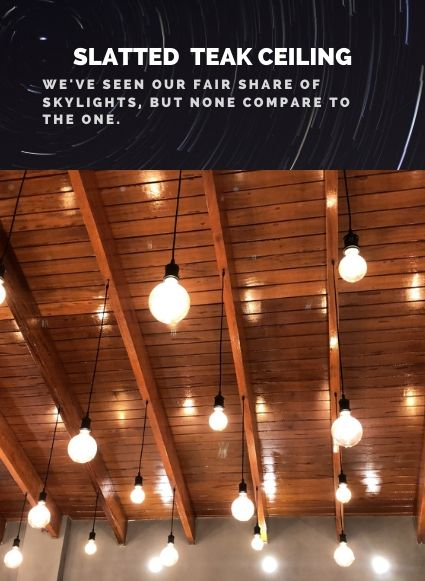
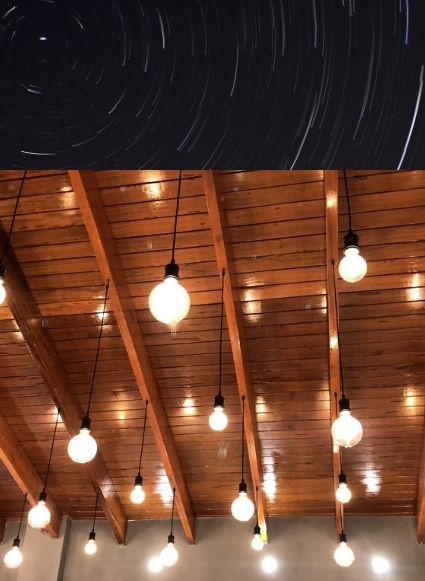
text uploaded

Changed region(s): [[0.0918, 0.062, 0.8259, 0.2169]]

diff --git a/index.html b/index.html
@@ -75,7 +75,7 @@
         </div>
     </header>
 
-    <div id="myCarousel" class="carousel slide home" data-ride="carousel" time-interval="false">
+    <div id="myCarousel" class="carousel slide home" data-ride="false" time-interval="false">
         <!-- Indicators -->
         <ul class="carousel-indicators">
             <li data-target="#myCarousel" data-slide-to="0" class="active"></li>
@@ -112,43 +112,128 @@
             <div class="container-fluid carousel-item">
                 <div class="container">
                     <!-- <img src="./resources/images/slideshow/1.png"> -->
+                    <div class="col-sm-3">
+                        <div>
+                            <h1>NATURAL WOOD TABLE TOPS</h1>
+                            <p>A ROUGHCUT LOG BEAUTIFULLY CONVERTED INTO AN EIGHT-SEATER DINING TABLE WITH PERFECT AESTHETICS FOR HOME AND OFFICE SPACES.</p>
+                        </div>
+                    </div>
                 </div>
             </div>
 
             <div class="container-fluid carousel-item">
                 <div class="container">
-                    <!-- <img src="./resources/images/slideshow/1.png"> -->
+                    <div class="col-sm-3">
+                        <div>
+                            <h1 style="color: black;">TRADITIONAL AND MORDEN POOJA MANDIR
+                            </h1>
+                            <p style="color: white;">WE DELIVER THE LATEST MANDIR DESIGNS THAT ARE BOTH AESTHETIC AND VAASTU COMPLAINT.
+                            </p>
+                        </div>
+                    </div>
                 </div>
             </div>
 
             <div class="container-fluid carousel-item">
-                <div class="container"></div>
+                <div class="container">
+                    <div class="col-sm-3">
+                        <div>
+                            <h1 style="color: black;">ANTIQUE WOODEN CHAIR</h1>
+                            <p style="color: black;">
+                                THE CHAIR IS CARVED WITH PERFECTION IN RUSTIC TEAK FINISH. IT RESEMBLES BOTH LUXURY AND ROYALITY.
+                            </p>
+                        </div>
+                    </div>
+                </div>
             </div>
 
             <div class="container-fluid carousel-item">
-                <div class="container"></div>
+                <div class="container">
+                    <div class="col-sm-3">
+                        <div>
+                            <h1 style="color: white;">SLATTED TEAK CEILING
+                            </h1>
+                            <p style="color: grey;">WE’VE SEEN OUR FAIR SHARE OF SKYLIGHTS, BUT NONE COMPARE TO THE ONE.
+                            </p>
+                        </div>
+                    </div>
+                </div>
             </div>
 
             <div class="container-fluid carousel-item">
-                <div class="container"></div>
+                <div class="container">
+                    <div class="col-sm-3">
+                        <div>
+                            <h1 style="color: grey;">SOLID DESIGNER DOOR
+                            </h1>
+                            <p style="color: black;">EXTRAORDINARY CARVED WOODEN DOUBLE DOOR WITH WALNUT FINISH.
+                            </p>
+                        </div>
+                    </div>
+                </div>
             </div>
 
             <div class="container-fluid carousel-item">
-                <div class="container"></div>
+                <div class="container">
+                    <div class="col-sm-6">
+                        <div>
+                            <h1 style="color: white;">WOODEN FLOORING
+                            </h1>
+                            <p style="color: white;">THE ELEGANT, WATER REPELLENT TEAK FLOORING ARE STRIKINGLY BEAUTIFUL.
+                            </p>
+                        </div>
+                    </div>
+                </div>
             </div>
 
             <div class="container-fluid carousel-item">
-                <div class="container"></div>
+                <div class="container">
+                    <div class="col-sm-3">
+                        <div>
+                            <h1 style="color: lightgreen;">WOOD WALL PANEL
+                            </h1>
+                            <p style="color: black;">WOODEN BEADING SYMMETRICALLY ARRANGED TO PROVIDE AN EXQUISITE PANEL.
+                            </p>
+                        </div>
+                    </div>
+                </div>
             </div>
 
             <div class="container-fluid carousel-item">
-                <div class="container"></div>
+                <div class="container">
+                    <div class="col-sm-3">
+                        <div>
+                            <h1 style="color: white;">CLASSIC MORDEN FURNITURE
+                            </h1>
+                            <p style="color: black;">A SUBTLE BLEND OF MORDERN AND CLASSIC FURNITURE CRAFTED FOR GREAT COMFORT AND ELEGANCE.
+                            </p>
+                        </div>
+                    </div>
+                </div>
             </div>
             <div class="container-fluid carousel-item">
-                <div class="container"></div>
+                <div class="container">
+                    <div class="col-sm-3">
+                        <div>
+                            <h1 style="color: white;">SLICED SLEEPER WALL PANEL
+                            </h1>
+                            <p style="color: white;">SLABS OF SLEEPER WOOD CUT PRECISELY TO PROVIDE AN ELEGANT, GRACEFUL AND VINTAGE CHARM.
+                            </p>
+                        </div>
+                    </div>
+                </div>
             </div>
             <div class="container-fluid carousel-item">
-                <div class="container"></div>
+                <div class="container">
+                    <div class="col-sm-3">
+                        <div>
+                            <h1 style="color: white;">CORIAN COUNTER TOP
+                            </h1>
+                            <p style="color: white;">
+                                ACRYLIC SOLID SURFACE PROVIDE THE BEST FINISHES. IT SURVIVES THE IMPACT NICKS AND CUTS OF DAILY WEAR AND TEAR.</p>
+                        </div>
+                    </div>
+                </div>
             </div>
 
         </div>

diff --git a/resources/css/main.css b/resources/css/main.css
@@ -332,6 +332,7 @@ nav ul li:nth-child(6) {
     height: 96vh;
     margin-top: 2vh;
     margin-bottom: 2vh;
+    font-family: "Poppins";
 }
 
 .carousel-item:nth-child(1) .container {
@@ -376,6 +377,39 @@ nav ul li:nth-child(6) {
 
 .carousel-item:nth-child(11) .container {
     background-image: url(../images/slideshow/11.jpg);
+}
+
+.carousel-item h1 {
+    font-size: xxx-large!important;
+    font-weight: 900;
+    margin: 5px 0px;
+    color: #fff;
+    font-family: "Poppins"!important;
+}
+
+.carousel-item p {
+    font-weight: 900;
+    font-size: x-large;
+    color: lightgreen;
+}
+
+.carousel-item .col-sm-3,
+.carousel-item .col-sm-6 {
+    display: flex;
+    height: 100%;
+    padding: 0px;
+}
+
+.col-sm-6 div p {
+    width: 90%;
+    text-align: left;
+}
+
+.carousel-item .col-sm-3 div,
+.carousel-item .col-sm-6 div {
+    height: fit-content;
+    margin: auto;
+    text-align: left;
 }
 
 .carousel-control-next span,
@@ -439,6 +473,20 @@ nav ul li:nth-child(6) {
     font-size: large;
 }
 
+@media screen and (max-width:800px) {
+    #myCarousel,
+    .carousel-item,
+    .carousel-inner {
+        height: 70vh;
+    }
+    .carousel-item {
+        height: 100%;
+    }
+    .carousel-item .container {
+        height: 70vh;
+    }
+}
+
 @media screen and (max-width:766px) {
     .logoandtagline {
         margin: 5vh 0px;
@@ -454,9 +502,26 @@ nav ul li:nth-child(6) {
     .home h3 {
         font-size: 15px;
     }
+    #myCarousel {
+        height: 70vh;
+    }
+    .carousel-item,
+    .carousel-inner {
+        height: 70vh;
+    }
     .carousel-item {
         height: 70vh;
         /* background-image: url(../images/slideshow/backgroundmobile.png); */
+    }
+    .carousel-item .col-sm-3,
+    .carousel-item .col-sm-6 {
+        height: 29%;
+    }
+    .carousel-item div h1 {
+        font-size: x-large!important;
+    }
+    .carousel-item div p {
+        font-size: small;
     }
     .carousel-item .container {
         background-size: contain;

diff --git a/resources/javascripts/main.js b/resources/javascripts/main.js
@@ -88,3 +88,8 @@ $(document).click(function(e) {
 //     //     navbutton.click();
 //     // });
 // }
+
+
+$('.carousel').carousel({
+    interval: false,
+});
